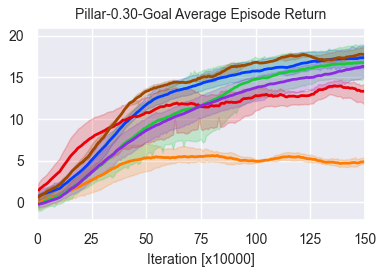
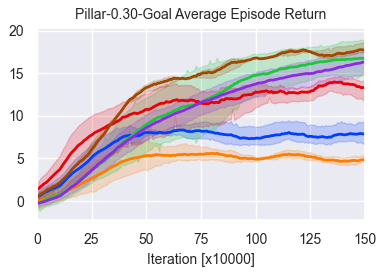
update plots

diff --git a/data_process/lineplot_aaai.py b/data_process/lineplot_aaai.py
@@ -39,19 +39,19 @@ legend_font_prop = dict(family='Microsoft YaHei')
 
 
 def help_func():
-    tag2plot = ['episode_cost', 'episode_return'] #,'episode_cost', 'episode_return'
-    # tag2plot = ['ep_phi_increase_times']
+    # tag2plot = ['episode_cost', 'episode_return'] #,'episode_cost', 'episode_return'
+    tag2plot = ['ep_phi_increase_times']
     # tag2plot = ['cost_rate']
     # alg_list = ['PPO-DA','FSAC', 'FSAC-0', 'TRPO-L', 'CPO', 'PPO-L'] #
-    # alg_list = ['PPO-DA','PPO-H','PPO-H2','FSAC-0'] #
+    alg_list = ['PPO-DA','PPO-H','FSAC-0'] #
     # alg_list = ['PPO-DA', 'FSAC', 'PPO-H2', 'FSAC-0']  #
     # alg_list = ['FSAC-A','FSAC','FSAC-0'] # 'FSAC-A'
-    alg_list = ['PPO-DA', 'PPO-H', 'FSAC-0', 'TRPO-L', 'CPO', 'PPO-L']  #
+    #alg_list = ['PPO-DA', 'PPO-H', 'FSAC-0', 'TRPO-L', 'CPO', 'PPO-L']  #
     # alg_list = ['PPO-DA', 'FSAC', 'FSAC-0', 'TRPO-L', 'CPO', 'PPO-L']  #
     # lbs = ['SSAC', 'FSAC-A' ] # , 'TRPO-Lagrangian', 'CPO', 'PPO-Lagrangian'
     # lbs = [r'$\phi_h$', r'$\phi_\xi$']
-    lbs = ['FAC-SIS', r'FAC w/ $\phi_h$', r'FAC w/ $\phi_0$', 'TRPO-L', 'CPO', 'PPO-L'] #
-    # lbs = ['FAC-SIS', r'FAC w/ $\phi_{F}$',  r'FAC w/ $\phi_h$', r'FAC w/ $\phi_0$',]
+    # lbs = ['FAC-SIS', r'FAC w/ $\phi_h$', r'FAC w/ $\phi_0$', 'TRPO-L', 'CPO', 'PPO-L'] #
+    lbs = ['FAC-SIS',  r'FAC w/ $\phi_h$', r'FAC w/ $\phi_0$',]
     # task = ['CustomGoal2'] # 'CustomGoal2','CustomPush1','CustomGoal3',
     # task = ['CustomPush1','CustomPush2','CustomGoal3',] # 'CustomGoal2','CustomPush1','CustomGoal3',
     task = ['CustomGoalPillar2', 'CustomGoalPillar3']
